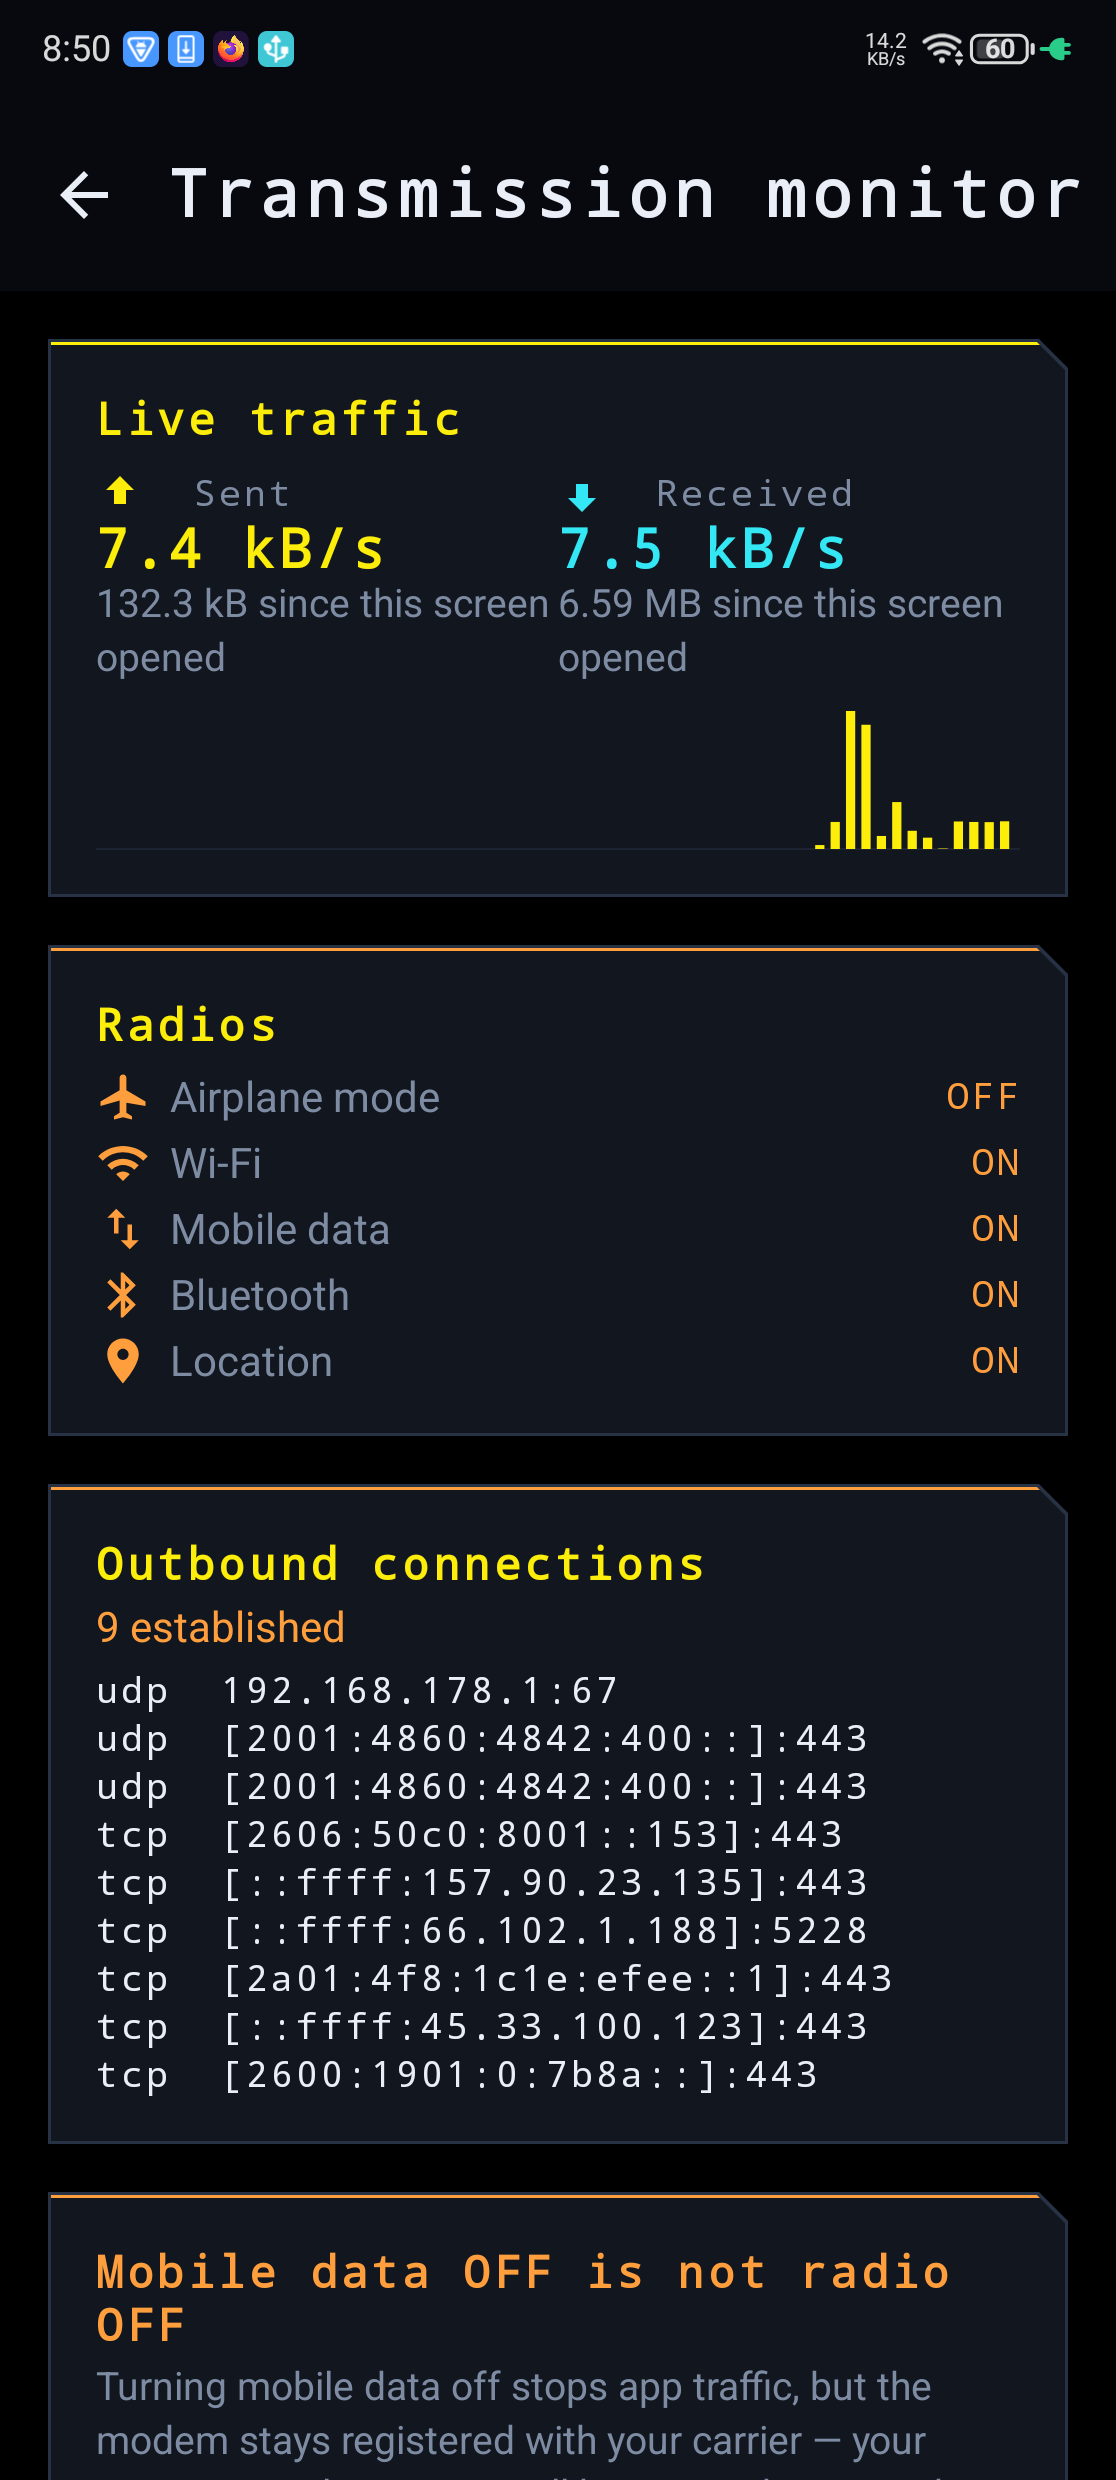
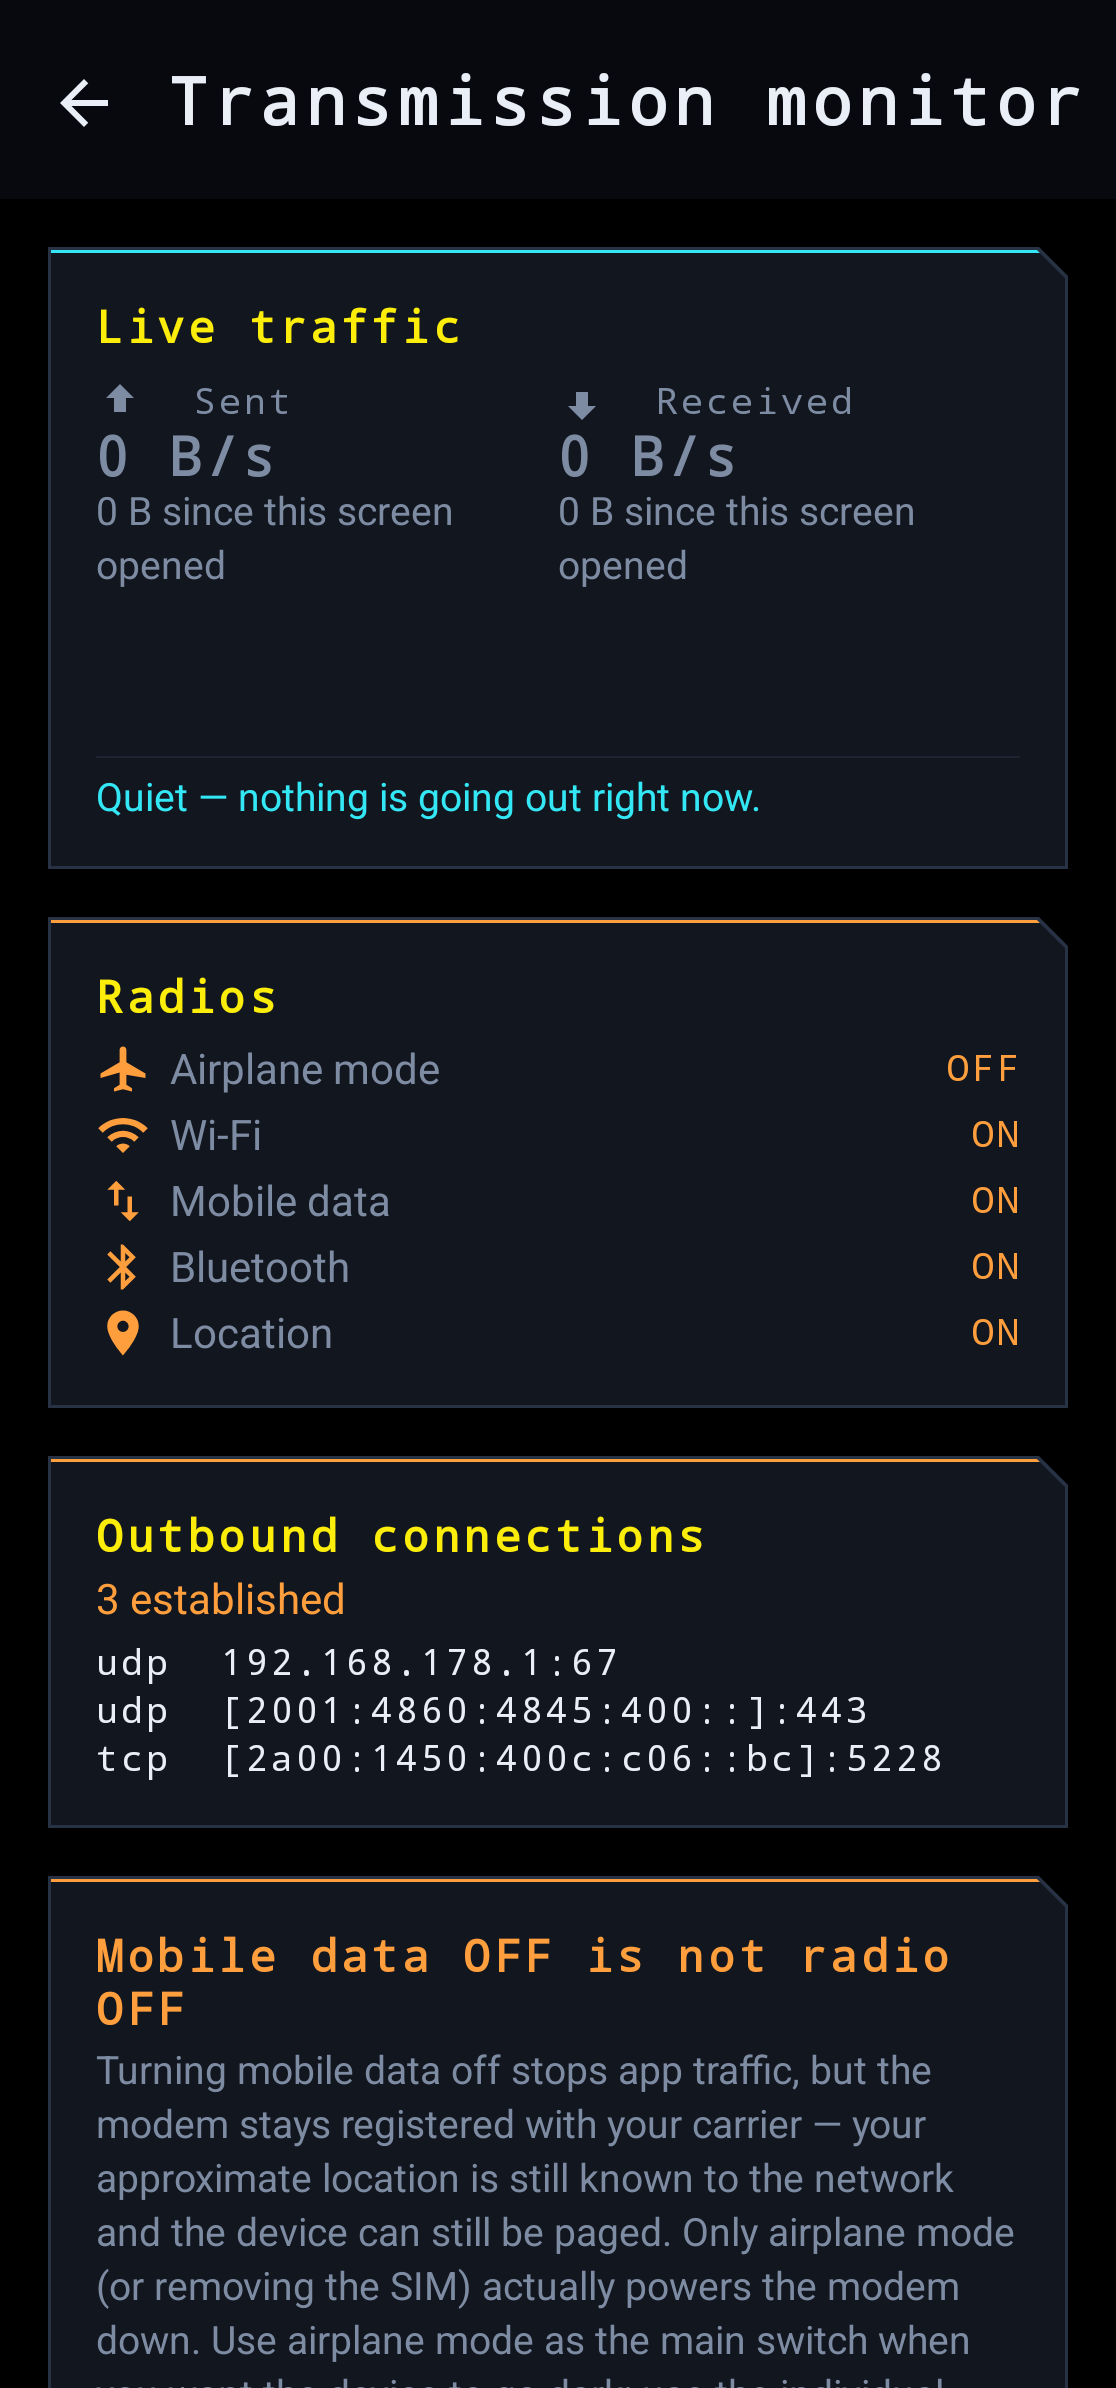
Draw edge to edge, compact rule status, refresh F-Droid screenshots
- The app now uses the full screen: enableEdgeToEdge() plus transparent system
  bars, so the black background reaches the display edges. Scaffold still insets
  the content, so nothing hides behind the status or navigation bar.
- Rule rows show a compact status ("ON · 00:01:26") instead of "ON — next change
  in ..."; on narrower rows the countdown was being ellipsised away. Applied to
  all 15 locales.
- Fresh F-Droid screenshots taken on device with the status bar cropped out:
  dashboard with live countdowns, transmission monitor, clock schedule editor,
  and the getting-started tutorial.

Bump to 0.3.4 (versionCode 13); F-Droid build recipe points at v0.3.4.

diff --git a/app/src/main/kotlin/io/github/findanonymity/fa/ui/MainActivity.kt b/app/src/main/kotlin/io/github/findanonymity/fa/ui/MainActivity.kt
@@ -6,6 +6,7 @@ import android.content.pm.PackageManager
 import android.os.Build
 import android.os.Bundle
 import androidx.activity.compose.setContent
+import androidx.activity.enableEdgeToEdge
 import androidx.activity.result.contract.ActivityResultContracts
 import androidx.appcompat.app.AppCompatActivity
 import androidx.core.content.ContextCompat
@@ -60,6 +61,9 @@ class MainActivity : AppCompatActivity() {
         registerForActivityResult(ActivityResultContracts.RequestPermission()) { /* result not needed */ }
 
     override fun onCreate(savedInstanceState: Bundle?) {
+        // Draw behind the system bars so the app uses the whole screen; Scaffold still insets
+        // its content, so nothing hides under the status or navigation bar.
+        enableEdgeToEdge()
         super.onCreate(savedInstanceState)
         maybeRequestNotificationPermission()
         setContent {
